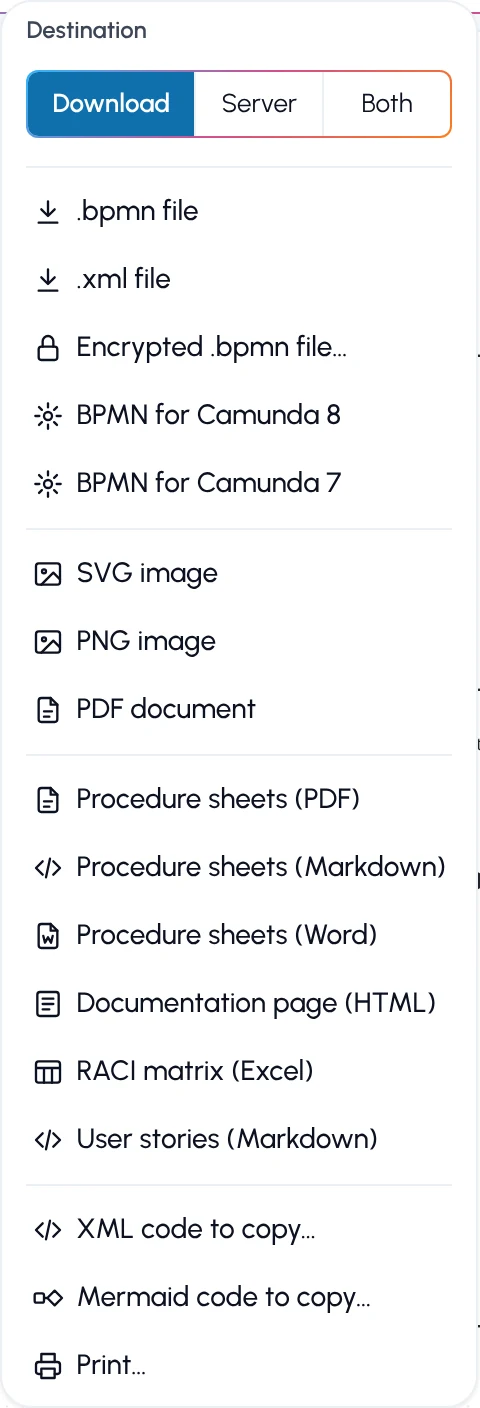
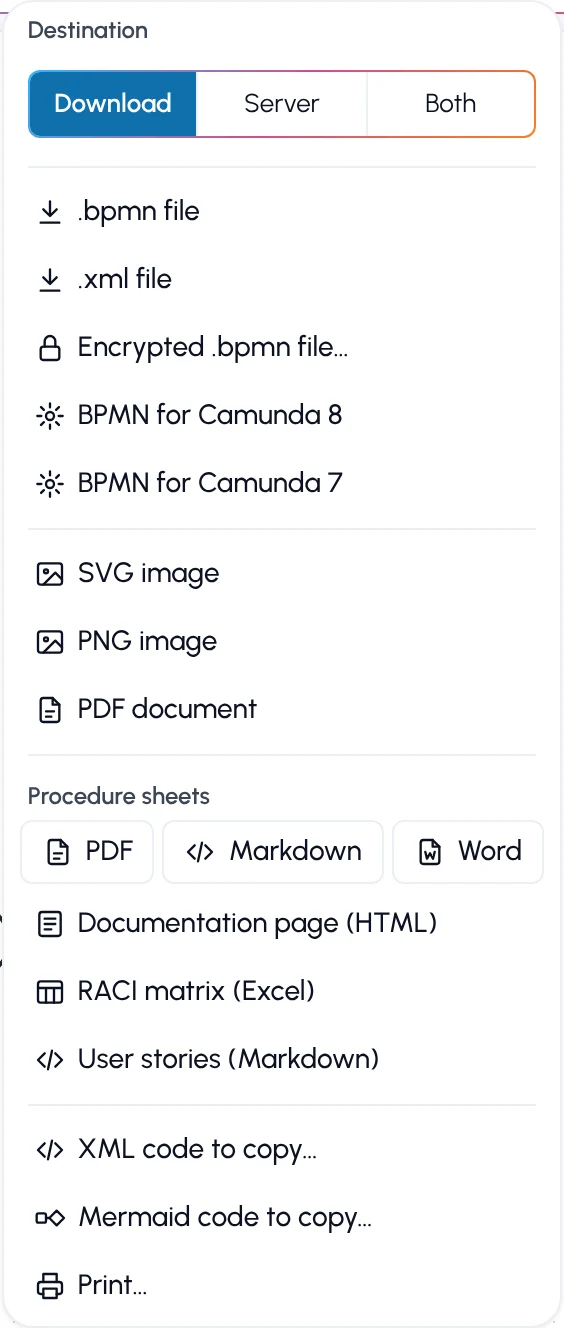
Group the procedure sheet exports under one label with format buttons
The Export menu shows Procedure sheets once, with PDF, Markdown and Word
buttons below it, as the process report does in the Expert menu. The relay
version follows the application version (1.4.6).

diff --git a/index.html b/index.html
@@ -78,9 +78,14 @@
       <button class="btn" id="btn-png" title="Bitmap image at 2× resolution, white background" data-icon="image" role="menuitem">PNG image</button>
       <button class="btn" id="btn-pdf" title="Vector PDF document" data-icon="pdf" role="menuitem">PDF document</button>
       <div class="menu-sep" role="separator"></div>
-      <button class="btn" id="btn-sheets-pdf" title="One page per activity, in the order of the flow, with its documentation" data-icon="pdf" role="menuitem">Procedure sheets (PDF)</button>
-      <button class="btn" id="btn-sheets-md" title="The same procedure sheets, as Markdown text" data-icon="code" role="menuitem">Procedure sheets (Markdown)</button>
-      <button class="btn" id="btn-sheets-docx" title="The same procedure sheets, as an editable Word document" data-icon="word" role="menuitem">Procedure sheets (Word)</button>
+      <div role="group" aria-labelledby="export-sheets-title">
+        <div class="menu-subtitle" id="export-sheets-title">Procedure sheets</div>
+        <div class="menu-formats">
+          <button class="btn" id="btn-sheets-pdf" title="Procedure sheets: one page per activity, in the order of the flow, with its documentation, as a PDF" data-icon="pdf" role="menuitem">PDF</button>
+          <button class="btn" id="btn-sheets-md" title="The same procedure sheets, as Markdown text" data-icon="code" role="menuitem">Markdown</button>
+          <button class="btn" id="btn-sheets-docx" title="The same procedure sheets, as an editable Word document" data-icon="word" role="menuitem">Word</button>
+        </div>
+      </div>
       <button class="btn" id="btn-doc-html" title="One self-contained web page: the diagram, and the sheet of each element on a click. Opens in any browser, without BPMN Pilot" data-icon="doc" role="menuitem">Documentation page (HTML)</button>
       <button class="btn" id="btn-raci-xlsx" title="Who performs, answers for, is consulted on and informed of each activity, as an Excel workbook" data-icon="table" role="menuitem">RACI matrix (Excel)</button>
       <button class="btn expert-only mod-user-stories-only" id="btn-stories-md" title="The user stories and acceptance criteria of each activity, in the order of the flow, as Markdown" data-icon="code" role="menuitem">User stories (Markdown)</button>

diff --git a/src/i18n/static-texts.js b/src/i18n/static-texts.js
@@ -42,9 +42,10 @@ const FR = {
   '#btn-svg': { text: 'Image SVG', title: 'Image vectorielle, nette à toute taille' },
   '#btn-png': { text: 'Image PNG', title: 'Image bitmap en résolution 2×, fond blanc' },
   '#btn-pdf': { text: 'Document PDF', title: 'Document PDF vectoriel' },
-  '#btn-sheets-pdf': { text: 'Fiches de procédure (PDF)', title: 'Une page par activité, dans l\'ordre du flux, avec sa documentation' },
-  '#btn-sheets-md': { text: 'Fiches de procédure (Markdown)', title: 'Les mêmes fiches de procédure, en texte Markdown' },
-  '#btn-sheets-docx': { text: 'Fiches de procédure (Word)', title: 'Les mêmes fiches de procédure, en document Word modifiable' },
+  '#export-sheets-title': { text: 'Fiches de procédure' },
+  '#btn-sheets-pdf': { text: 'PDF', title: 'Fiches de procédure : une page par activité, dans l\'ordre du flux, avec sa documentation, en PDF' },
+  '#btn-sheets-md': { text: 'Markdown', title: 'Les mêmes fiches de procédure, en texte Markdown' },
+  '#btn-sheets-docx': { text: 'Word', title: 'Les mêmes fiches de procédure, en document Word modifiable' },
   '#btn-raci-xlsx': { text: 'Matrice RACI (Excel)', title: 'Qui réalise, valide, est consulté et est informé pour chaque activité, en classeur Excel' },
   '#expert-report-title': { text: 'Rapport de processus' },
   '#btn-report-pdf': { text: 'PDF', title: 'Rapport de processus : constats, axes d\'amélioration et séquence des éléments, en PDF' },

diff --git a/aide.html b/aide.html
@@ -440,7 +440,7 @@
             </tbody>
           </table>
         </div>
-        <figure><img src="/src/help/img/fr-menu-exporter.webp" width="293" height="704" alt="Menu Exporter ouvert en mode Expert : Destination, Fichier .bpmn, Fichier .xml, Fichier .bpmn chiffré, BPMN pour Camunda 8 et 7, Image SVG et PNG, Document PDF, Fiches de procédure en PDF, Markdown et Word, Page de documentation (HTML), Matrice RACI (Excel), Récits utilisateur (Markdown), Code XML à copier, Code Mermaid à copier, Imprimer." loading="lazy" /><figcaption>Le menu Exporter, en mode Expert.</figcaption></figure>
+        <figure><img src="/src/help/img/fr-menu-exporter.webp" width="293" height="664" alt="Menu Exporter ouvert en mode Expert : Destination, Fichier .bpmn, Fichier .xml, Fichier .bpmn chiffré, BPMN pour Camunda 8 et 7, Image SVG et PNG, Document PDF, Fiches de procédure en PDF, Markdown et Word, Page de documentation (HTML), Matrice RACI (Excel), Récits utilisateur (Markdown), Code XML à copier, Code Mermaid à copier, Imprimer." loading="lazy" /><figcaption>Le menu Exporter, en mode Expert.</figcaption></figure>
         <!-- online -->
         <p>Dans la version Docker, le menu commence par une <span class="ui">Destination</span> : téléchargement, serveur ou les deux.</p>
         <!-- /online -->

diff --git a/help.html b/help.html
@@ -440,7 +440,7 @@
             </tbody>
           </table>
         </div>
-        <figure><img src="/src/help/img/en-menu-exporter.webp" width="240" height="704" alt="Export menu open in Expert mode: Destination, .bpmn file, .xml file, Encrypted .bpmn file, BPMN for Camunda 8 and 7, SVG and PNG images, PDF document, Procedure sheets in PDF, Markdown and Word, Documentation page (HTML), RACI matrix (Excel), User stories (Markdown), XML code to copy, Mermaid code to copy, Print." loading="lazy" /><figcaption>The Export menu, in Expert mode.</figcaption></figure>
+        <figure><img src="/src/help/img/en-menu-exporter.webp" width="282" height="664" alt="Export menu open in Expert mode: Destination, .bpmn file, .xml file, Encrypted .bpmn file, BPMN for Camunda 8 and 7, SVG and PNG images, PDF document, Procedure sheets in PDF, Markdown and Word, Documentation page (HTML), RACI matrix (Excel), User stories (Markdown), XML code to copy, Mermaid code to copy, Print." loading="lazy" /><figcaption>The Export menu, in Expert mode.</figcaption></figure>
         <!-- online -->
         <p>In the Docker version, the menu starts with a <span class="ui">Destination</span>: download, server or both.</p>
         <!-- /online -->
